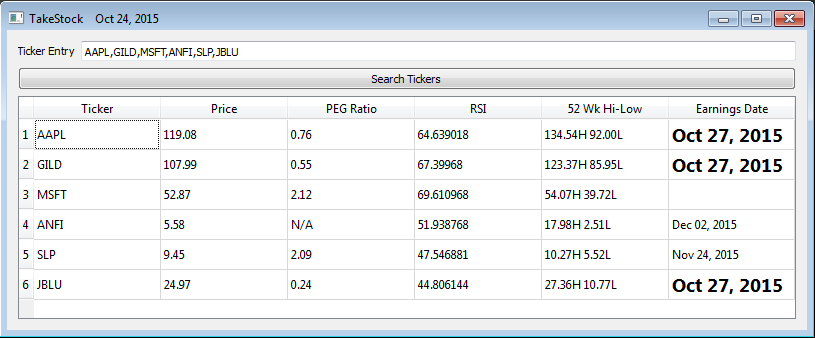
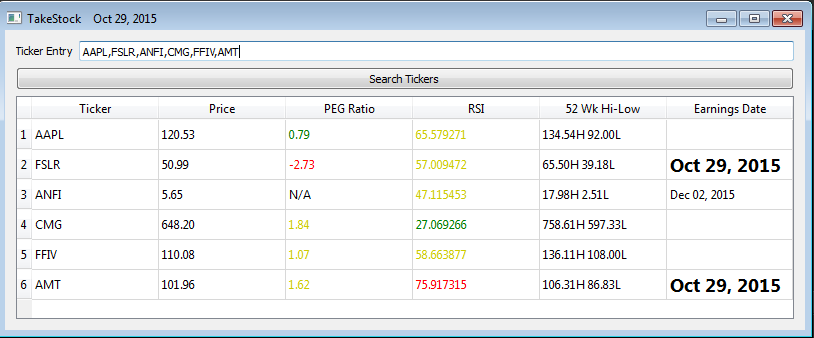
Add value colors for PEG ratio and RSI

diff --git a/GUI.py b/GUI.py
@@ -81,10 +81,22 @@ class Worker(QtCore.QThread):
                     item = QtGui.QTableWidgetItem(row.price)
                 elif self.gui.header_names[col_index] == 'PEG Ratio':
                     item = QtGui.QTableWidgetItem(row.peg_ratio)
-                elif self.gui.header_names[col_index] == 'PEG Ratio':
-                    item = QtGui.QTableWidgetItem(row.peg_ratio)
+                    if is_number(row.peg_ratio):
+                        if 0 < float(row.peg_ratio) <= 1:
+                            item.setTextColor(QtGui.QColor('green'))
+                        elif float(row.peg_ratio) > 1:
+                            item.setTextColor(QtGui.QColor(204, 204, 0))  # Dark Yellow
+                        elif float(row.peg_ratio) < 0:
+                            item.setTextColor(QtGui.QColor('red'))
                 elif self.gui.header_names[col_index] == 'RSI':
                     item = QtGui.QTableWidgetItem(row.rsi)
+                    if is_number(row.rsi):
+                        if 0 < float(row.rsi) <= 30:
+                            item.setTextColor(QtGui.QColor('green'))
+                        elif 30 < float(row.rsi) < 70:
+                            item.setTextColor(QtGui.QColor(204, 204, 0))  # Dark Yellow
+                        elif float(row.rsi) > 70:
+                            item.setTextColor(QtGui.QColor('red'))
                 elif self.gui.header_names[col_index] == '52 Wk Hi-Low':
                     item = QtGui.QTableWidgetItem(row.fifty_two)
                 elif self.gui.header_names[col_index] == 'Earnings Date':
@@ -97,6 +109,14 @@ class Worker(QtCore.QThread):
                 else:
                     item = QtGui.QTableWidgetItem('No Data Found')
                 self.gui.results_table.setItem(row_index, col_index, item)
+
+
+def is_number(num):
+    try:
+        float(num)
+        return True
+    except ValueError:
+        return False
 
 
 app = QtGui.QApplication(sys.argv)
